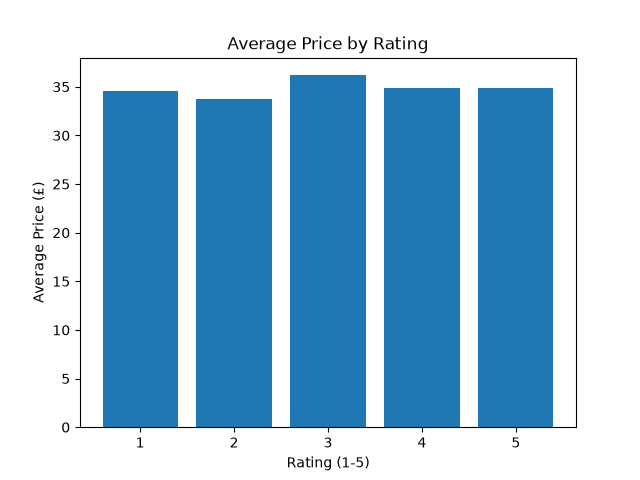
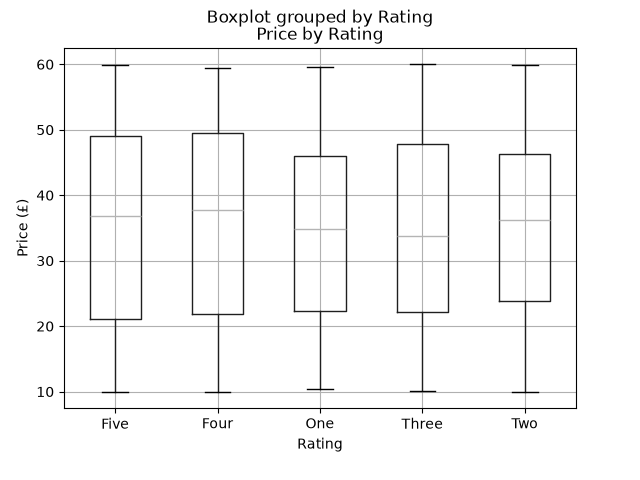
Add files via upload

diff --git a/3_visualization.py b/3_visualization.py
@@ -3,38 +3,32 @@ import matplotlib.pyplot as plt
 
 df = pd.read_csv('books.csv')
 
-# FIX THE ERROR HERE
+df['Price'] = df['Price'].astype(str).str.replace('£', '', regex=False).str.replace('Â', '', regex=False)
 df['Price'] = pd.to_numeric(df['Price'], errors='coerce')
+df = df.dropna(subset=['Price'])
 
-rating_map = {'One':1, 'Two':2, 'Three':3, 'Four':4, 'Five':5}
-df['RatingNum'] = df['Rating'].map(rating_map)
-
-# 1. Price Distribution
 plt.figure()
 plt.hist(df['Price'], bins=20)
-plt.title('Price Distribution - All Catalogue')
+plt.title('Price Distribution')
 plt.xlabel('Price (£)')
-plt.ylabel('Number of Books')
+plt.ylabel('Frequency')
 plt.savefig('price_distribution.png')
 plt.show()
 
-# 2. Avg Price by Rating
 plt.figure()
-avg_price = df.groupby('RatingNum')['Price'].mean()
-avg_price.plot(kind='bar')
-plt.title('Average Price by Rating')
-plt.xlabel('Rating (1-5)')
-plt.ylabel('Average Price (£)')
+df.boxplot(column='Price', by='Rating')
+plt.title('Price by Rating')
+plt.xlabel('Rating')
+plt.ylabel('Price (£)')
 plt.savefig('price_by_rating.png')
 plt.show()
 
-# 3. Price vs Rating
 plt.figure()
-plt.scatter(df['RatingNum'], df['Price'], alpha=0.5)
+plt.scatter(df['Rating'], df['Price'])
 plt.title('Price vs Rating')
 plt.xlabel('Rating')
 plt.ylabel('Price (£)')
 plt.savefig('price_vs_rating.png')
 plt.show()
 
-print("DONE! All 3 graphs created!")
+print('DONE! All 3 graphs created!')
